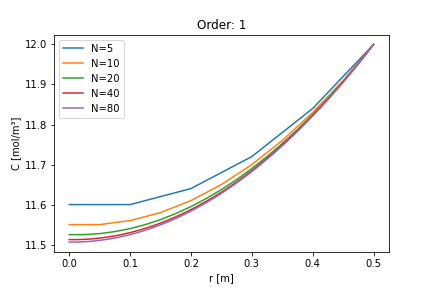
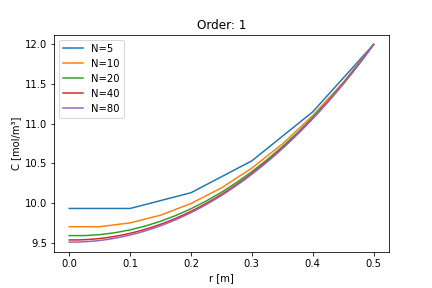
MMS
légère différence entre sol manufacturé et sol numérique pour des r petit à corriger

diff --git a/devoir1/Devoir2MMS.py b/devoir1/Devoir2MMS.py
@@ -1,0 +1,140 @@
+import numpy as np
+from numpy import linalg as LA
+from math import pi, exp, sin
+import matplotlib.pyplot as plt
+
+
+def manufactured_solution(r, t, R=0.5, Ce=12):
+    return np.exp(-t) * (r**2 - R**2) + Ce * np.sin((np.pi/2) * (r/R))
+
+def source_term(r, t):
+        R = 0.5
+        Ce = 12
+        Deff = 10E-10
+        return (-pi * Ce * Deff * np.cos(pi * r / (2 * R)) / (2 * R * r) +
+                pi**2 * Ce * Deff * np.sin(pi * r / (2 * R)) / (4 * R**2) -
+                4 * Deff * exp(-t) + R**2 * exp(-t) - r**2 * exp(-t))
+
+def solve(n, dt, order, imax, tol, debug=False):
+    # Geometry
+    r0 = 0
+    rf = 0.5
+
+    # Constant variables
+    d_eff = 10E-10
+    # s = 8E-9
+    c_e = 12.
+
+    # Position vector
+    r = np.linspace(r0, rf, n)
+    h = (rf -r0)/(n-1)
+
+    # Creation of the system matrix
+    #   bl: diagonal left
+    #   a : diagonal
+    #   br: diagonal right
+    bl_vector = np.zeros(n-2)
+    a_vector = np.zeros(n-2)
+    br_vector = np.zeros(n-2)
+
+    for i in range(0, n-2):
+        if order==1:
+            bl_vector[i] = -1*d_eff*dt /(h*h)
+            br_vector[i] = -1*d_eff*dt * (1/(r[i+1]*h) + 1/(h*h))
+            a_vector[i] = 1 + d_eff*dt * (1/(r[i+1]*h) + 2/(h*h))
+        elif order==2:
+            bl_vector[i] = -1*d_eff*dt * ( (-1/(2*r[i+1]*h)) + 1/(h*h))
+            br_vector[i] = -1*d_eff*dt * ( (1/(2*r[i+1]*h)) + 1/(h*h))
+            a_vector[i] = 1 + d_eff*dt * 2/(h*h)
+
+    a = np.diag(a_vector)
+    a = np.c_[np.zeros(n-2), a, np.zeros(n-2)]
+
+    bl = np.diag(bl_vector)
+    bl = np.c_[bl, np.zeros(n-2), np.zeros(n-2)]
+
+    br = np.diag(br_vector,2)
+    br = np.delete(br, [n-2, n-1], 0) #rows
+
+    matrix = bl+a+br
+
+    # Boundary conditions
+    # Neuwmann
+    bc_r0_vector = np.zeros(n)
+    if order == 1:
+        bc_r0_vector[0:2] = [1,-1]
+    elif order == 2:
+        bc_r0_vector[0:3] = [-3, 4, -1]
+    # Diriclet
+    bc_rn_vector = np.zeros(n)
+    bc_rn_vector[-1] = 1
+
+    matrix = np.r_[ [bc_r0_vector], matrix, [bc_rn_vector]] # Add rows for bc
+    matrix_inv = LA.inv(matrix)
+
+    if debug:
+        print('** system matrix ** ')
+        print('diagonal vectors: ')
+        print(bl_vector, a_vector,  br_vector)
+        print('matrix: ')
+        print(matrix)
+
+   
+    c = np.zeros(n)
+    # Dircihlet bc
+    c[n-1] =  c_e
+
+    #********** MAIN LOOP **********
+    c_pre = np.zeros(n)
+    res = 1
+    i =0
+    if debug:
+        print('** main loop **')
+        print('max number of iteration : ', imax)
+    current_time = 1000000 #temps élevé
+    while i <imax and abs(res) > tol:
+        
+        #Calcul du terme source, on prend r[1:-1] pour éviter la division par 0 pour r = 0 dans le terme source
+   
+        print(i)
+        s_current = source_term(r[1:-1], current_time)
+        
+        rhs = c.copy()
+        for j in range(1, n-2):
+            rhs[j] += s_current[j] * dt
+        rhs[0] = 0  
+        
+        c = np.matmul(matrix_inv, rhs)
+        res = LA.norm(c-c_pre)
+
+        if (i%1000 == 0) and debug:
+            print(i, res)
+
+        i += 1
+    if i == imax:
+        print('    ***********')
+        print('    Maximal number of iterations achived')
+
+    return r, c
+
+
+dt = 1E5
+tol = 1E-15
+imax = 1E4
+n = 1000 
+order = 2  
+r1,c_num= solve(n, dt, order, imax, tol)
+
+r = np.linspace(0, 0.5)
+t = 1000000  
+
+c_man = manufactured_solution(r1, t)
+
+plt.figure(figsize=(10, 6))
+plt.plot(r1, c_num, label='Solution Numérique', marker='o')
+plt.plot(r1, c_man, label='Solution Manufacturée', linestyle='--')
+plt.xlabel('Position (r)')
+plt.ylabel('Concentration (C)')
+plt.title('Comparaison entre la solution numérique et manufacturée')
+plt.legend()
+plt.show()

diff --git a/devoir1/untitled0.py b/devoir1/untitled0.py
@@ -1,0 +1,140 @@
+import numpy as np
+from numpy import linalg as LA
+from math import pi, exp, sin
+import matplotlib.pyplot as plt
+
+
+def manufactured_solution(r, t, R=0.5, Ce=12):
+    return np.exp(-t) * (r**2 - R**2) + Ce * np.sin((np.pi/2) * (r/R))
+
+def source_term(r, t):
+        R = 0.5
+        Ce = 12
+        Deff = 10E-10
+        return (-pi * Ce * Deff * np.cos(pi * r / (2 * R)) / (2 * R * r) +
+                pi**2 * Ce * Deff * np.sin(pi * r / (2 * R)) / (4 * R**2) -
+                4 * Deff * exp(-t) + R**2 * exp(-t) - r**2 * exp(-t))
+
+def solve(n, dt, order, imax, tol, debug=False):
+    # Geometry
+    r0 = 0
+    rf = 0.5
+
+    # Constant variables
+    d_eff = 10E-10
+    # s = 8E-9
+    c_e = 12.
+
+    # Position vector
+    r = np.linspace(r0, rf, n)
+    h = (rf -r0)/(n-1)
+
+    # Creation of the system matrix
+    #   bl: diagonal left
+    #   a : diagonal
+    #   br: diagonal right
+    bl_vector = np.zeros(n-2)
+    a_vector = np.zeros(n-2)
+    br_vector = np.zeros(n-2)
+
+    for i in range(0, n-2):
+        if order==1:
+            bl_vector[i] = -1*d_eff*dt /(h*h)
+            br_vector[i] = -1*d_eff*dt * (1/(r[i+1]*h) + 1/(h*h))
+            a_vector[i] = 1 + d_eff*dt * (1/(r[i+1]*h) + 2/(h*h))
+        elif order==2:
+            bl_vector[i] = -1*d_eff*dt * ( (-1/(2*r[i+1]*h)) + 1/(h*h))
+            br_vector[i] = -1*d_eff*dt * ( (1/(2*r[i+1]*h)) + 1/(h*h))
+            a_vector[i] = 1 + d_eff*dt * 2/(h*h)
+
+    a = np.diag(a_vector)
+    a = np.c_[np.zeros(n-2), a, np.zeros(n-2)]
+
+    bl = np.diag(bl_vector)
+    bl = np.c_[bl, np.zeros(n-2), np.zeros(n-2)]
+
+    br = np.diag(br_vector,2)
+    br = np.delete(br, [n-2, n-1], 0) #rows
+
+    matrix = bl+a+br
+
+    # Boundary conditions
+    # Neuwmann
+    bc_r0_vector = np.zeros(n)
+    if order == 1:
+        bc_r0_vector[0:2] = [1,-1]
+    elif order == 2:
+        bc_r0_vector[0:3] = [-3, 4, -1]
+    # Diriclet
+    bc_rn_vector = np.zeros(n)
+    bc_rn_vector[-1] = 1
+
+    matrix = np.r_[ [bc_r0_vector], matrix, [bc_rn_vector]] # Add rows for bc
+    matrix_inv = LA.inv(matrix)
+
+    if debug:
+        print('** system matrix ** ')
+        print('diagonal vectors: ')
+        print(bl_vector, a_vector,  br_vector)
+        print('matrix: ')
+        print(matrix)
+
+   
+    c = np.zeros(n)
+    # Dircihlet bc
+    c[n-1] =  c_e
+
+    #********** MAIN LOOP **********
+    c_pre = np.zeros(n)
+    res = 1
+    i =0
+    if debug:
+        print('** main loop **')
+        print('max number of iteration : ', imax)
+    current_time = 1000000 #temps élevé
+    while i <imax and abs(res) > tol:
+        
+        #Calcul du terme source, on prend r[1:-1] pour éviter la division par 0 pour r = 0 dans le terme source
+   
+        print(i)
+        s_current = source_term(r[1:-1], current_time)
+        
+        rhs = c.copy()
+        for j in range(1, n-2):
+            rhs[j] += s_current[j] * dt
+        rhs[0] = 0  
+        
+        c = np.matmul(matrix_inv, rhs)
+        res = LA.norm(c-c_pre)
+
+        if (i%1000 == 0) and debug:
+            print(i, res)
+
+        i += 1
+    if i == imax:
+        print('    ***********')
+        print('    Maximal number of iterations achived')
+
+    return r, c
+
+
+dt = 1E5
+tol = 1E-15
+imax = 1E4
+n = 1000 
+order = 2  
+r1,c_num= solve(n, dt, order, imax, tol)
+
+r = np.linspace(0, 0.5)
+t = 1000000  
+
+c_man = manufactured_solution(r1, t)
+
+plt.figure(figsize=(10, 6))
+plt.plot(r1, c_num, label='Solution Numérique', marker='o')
+plt.plot(r1, c_man, label='Solution Manufacturée', linestyle='--')
+plt.xlabel('Position (r)')
+plt.ylabel('Concentration (C)')
+plt.title('Comparaison entre la solution numérique et manufacturée')
+plt.legend()
+plt.show()

diff --git a/devoir1/devoir1.py b/devoir1/devoir1.py
@@ -19,8 +19,8 @@ import time
 import numpy as np
 from numpy import linalg as LA
 import matplotlib.pyplot as plt
-import solve_FICK as solve_fick
-
+#import solve_FICK as solve_fick
+import untitled0 as solve_fick
 def plot_solutions(n_cases_ext, Order, file_name):
     '''
     Plots the solutions for different cases.
@@ -121,7 +121,7 @@ def plot_erreurs(errors_values_l1,errors_values_l2,error_linf,Order):
     plt.show()
 
 plot_erreurs(errors_values_1_l1,errors_values_1_l2,error_linf_1, "1")
-#plot_erreurs(errors_values_2_l1,errors_values_2_l2,error_linf_2, "1")
+plot_erreurs(errors_values_2_l1,errors_values_2_l2,error_linf_2, "1")
 
 def plot_convergence(error_values, h_values_ext, Order, error_name = 'L2') :
     """
@@ -191,4 +191,4 @@ def plot_convergence(error_values, h_values_ext, Order, error_name = 'L2') :
 plot_convergence(errors_values_1_l1, h_values, "1", error_name='L1')
 plot_convergence(errors_values_1_l2, h_values, "1", error_name='L2')
 plot_convergence(error_linf_1, h_values, "1", error_name='Linf')
-#plot_convergence(errors_values_2_l2, h_values, "2")
+plot_convergence(errors_values_2_l2, h_values, "2")
